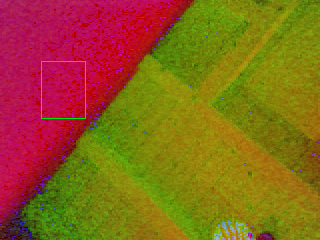
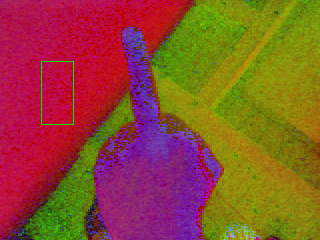
Updated the difference detection, BG subtraction.

diff --git a/objectdetection/differencedetection.py b/objectdetection/differencedetection.py
@@ -10,7 +10,7 @@ class DifferenceDetection(ObjectDetection):
     def __init__(self, reference):
         super(DifferenceDetection, self).__init__()        
         self.__cropReferenceImage = reference[ImageParameters.box_y:(ImageParameters.box_y+ImageParameters.box_height), ImageParameters.box_x:(ImageParameters.box_x+ImageParameters.box_width)]
-        self.__cropReferenceImage = cv2.cvtColor(self.__cropReferenceImage, cv2.COLOR_BGR2RGB)
+        self.__cropReferenceImage = cv2.cvtColor(self.__cropReferenceImage, cv2.COLOR_BGR2GRAY)
 
     def getProbability(self):
         return self.__prob
@@ -22,9 +22,11 @@ class DifferenceDetection(ObjectDetection):
 
         self.__cropImage = self.__img[ImageParameters.box_y:(ImageParameters.box_y+ImageParameters.box_height), ImageParameters.box_x:(ImageParameters.box_x+ImageParameters.box_width)]
 
-        tresh = self.__compareImages()
+        diff = cv2.absdiff(self.__cropReferenceImage, self.__cropImage)
+        ret, thresh = cv2.threshold(diff, 20, 256, cv2.THRESH_BINARY_INV)
+        cv2.imwrite("detected/diffm.png", thresh)
 
-        (cnts, _) = cv2.findContours(tresh, cv2.RETR_TREE, cv2.CHAIN_APPROX_SIMPLE)
+        (cnts, _) = cv2.findContours(thresh, cv2.RETR_TREE, cv2.CHAIN_APPROX_SIMPLE)
         c = sorted(cnts, key = self.__calcProbability, reverse = True)[0]
 
         x, y, w, h = cv2.boundingRect(c)
@@ -40,37 +42,6 @@ class DifferenceDetection(ObjectDetection):
 
         return distanceFromMiddle
 
-    def __compareImages(self):
-        """This method compares the reference image with the new image."""
-        
-        dx = 4
-        y = 0
-        for y in range(0, ImageParameters.box_height-1):
-            for x in range(0, ImageParameters.box_width, dx):
-                xstart = x
-                xend = x + dx
-
-                if x+dx > ImageParameters.box_width:
-                    xend = ImageParameters.box_width
-
-                refHist = cv2.calcHist(self.__cropImage[y:y+1, xstart:xend], [0], None, [256], [0, 256])
-                refHist = cv2.normalize(refHist).flatten()
-
-                imgHist = cv2.calcHist(self.__cropReferenceImage[y:y+1, xstart:xend], [0], None, [256], [0, 256])
-                imgHist = cv2.normalize(imgHist).flatten()
-
-                res = cv2.compareHist(refHist, imgHist, cv2.cv.CV_COMP_CORREL );
-                newValue = np.array([0,0,0])
-                if res < 0.1:
-                    newValue = np.array([255,255,255])
-                for xpos in range(xstart, xend):
-                    self.__cropReferenceImage[y, xpos] = newValue
-
-        cv2.imwrite("test.png", self.__cropReferenceImage)
-        self.__cropReferenceImage = cv2.cvtColor(self.__cropReferenceImage, cv2.COLOR_BGR2GRAY)
-        ret, tresh = cv2.threshold(self.__cropReferenceImage, ImageParameters.contrastCalibration, 255, cv2.THRESH_BINARY_INV)
-        return tresh
-
     def __calcProbability(self, contour):
         """Calculate probabilty that the found contour is our can."""
         x, y, w, h = cv2.boundingRect(contour)
@@ -78,4 +49,4 @@ class DifferenceDetection(ObjectDetection):
 
     def __prepareImage(self):
         """Apply filters."""
-        self.__img = cv2.cvtColor(self.__img, cv2.COLOR_BGR2RGB)
+        self.__img = cv2.cvtColor(self.__img, cv2.COLOR_BGR2GRAY)
